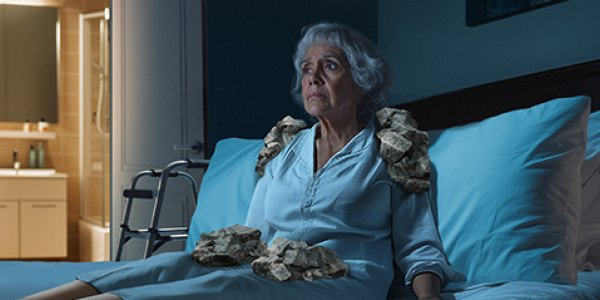
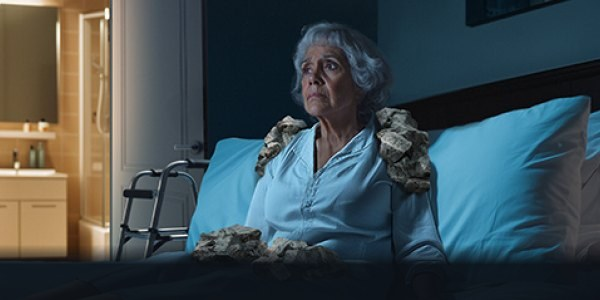
banners5: client feedback on 300x250/336x280/300x600 Surface set
Frame 1 — drop the #f1legal dark box; bake the dark base into
f1-photo.jpg for 300x250 and 336x280 so the dark area under the
green bar is part of the image (300x600 already did this).

Frame 2 — resize/reposition #f2rock to the Figma layout (node 277-2)
so the rock size and its gap to the purple bar match: 8px (300x250),
11px (336x280), 22px (300x600). Purple bar positions unchanged.

Changed region(s): [[0.0, 0.81, 1.0, 1.0]]

diff --git a/banners5/083126_Catalyst-Surface_HTML5_CAL-0166-1_336x280/083126_Catalyst-Surface_HTML5_CAL-0166-1_336x280.html b/banners5/083126_Catalyst-Surface_HTML5_CAL-0166-1_336x280/083126_Catalyst-Surface_HTML5_CAL-0166-1_336x280.html
@@ -48,15 +48,14 @@
                transform-origin: 50% 45%; }
     #f1bar   { position: absolute; left: 0; top: 174px; width: 336px; height: 65px;
                background: #8EBE4E; z-index: 20; }
-    #f1legal { position: absolute; left: 0; top: 239px; width: 336px; height: 41px;
-               background: #0E161C; z-index: 23; }
+    /* no dark box under the bar — the dark base is baked into f1-photo.jpg (matches Figma / 300x600) */
     #f1head  { z-index: 25; }
     #f1foot  { z-index: 25; }
 
     /* ---- Frame 2 ---- */
     /* full-frame block; the "bar opens" transition scales it on Y (compositor-only) */
     #f2bg   { position: absolute; left: 0; top: 0; width: 336px; height: 280px; background: #8EBE4E; z-index: 30; }
-    #f2rock { position: absolute; top: 30px; left: 100px; width: 136px; z-index: 40; }
+    #f2rock { position: absolute; top: 53px; left: 97px; width: 138px; z-index: 40; }
     #f2bar  { position: absolute; left: 0; top: 151px; width: 336px; height: 79px;
               background: #44264A; z-index: 50; }
     #f2head { z-index: 55; }
@@ -75,7 +74,7 @@
     /* CSS owns the frame-1 starting state so nothing flashes before the JS
        timeline runs: fade-in layers start hidden, and the full-frame colour
        blocks start collapsed to a bar (the timeline only tweens from here). */
-    #f1bar, #f1head, #f1legal, #f1foot,
+    #f1bar, #f1head, #f1foot,
     #f2bg, #f2rock, #f2bar, #f2head,
     #f3bg, #f3head, #f3foot, #f3band, #f3cta, #f3rock { opacity: 0; }
 
@@ -91,7 +90,6 @@
     <img id="f1photo" src="img/f1-photo.jpg" alt="">
     <div id="f1bar"></div>
     <img id="f1head" class="txt" src="img/f1-head.png" alt="Is Cancer-Associated LEMS weighing down your patients with SCLC?">
-    <div id="f1legal"></div>
     <img id="f1foot" class="txt" src="img/f1-foot.svg" alt="LEMS=Lambert-Eaton myasthenic syndrome; SCLC=small cell lung cancer.">
 
     <div id="f2bg"></div>
@@ -136,7 +134,7 @@
     tl.set('#f1bar', { opacity: 1, xPercent: -110 }, 0.5);
     tl.to('#f1bar', { xPercent: 0, duration: 0.55, ease: 'power2.out' }, 0.5);
     tl.to('#f1head', { opacity: 1, duration: 0.35, ease: 'power1.out' }, 1.15);
-    tl.to(['#f1legal', '#f1foot'], { opacity: 1, duration: 0.30, ease: 'power1.out' }, 1.45);
+    tl.to('#f1foot', { opacity: 1, duration: 0.30, ease: 'power1.out' }, 1.45);
 
     // TRANSITION 1 — green bar opens to clear the screen
     tl.set('#f2bg', { opacity: 1 }, 4.7);

diff --git a/banners5/083126_Catalyst-Surface_HTML5_CAL-0166-1_300x250/083126_Catalyst-Surface_HTML5_CAL-0166-1_300x250.html b/banners5/083126_Catalyst-Surface_HTML5_CAL-0166-1_300x250/083126_Catalyst-Surface_HTML5_CAL-0166-1_300x250.html
@@ -48,15 +48,14 @@
                transform-origin: 50% 45%; }
     #f1bar   { position: absolute; left: 0; top: 152px; width: 300px; height: 65px;
                background: #8EBE4E; z-index: 20; }
-    #f1legal { position: absolute; left: 0; top: 217px; width: 300px; height: 33px;
-               background: #0E161C; z-index: 23; }
+    /* no dark box under the bar — the dark base is baked into f1-photo.jpg (matches Figma / 300x600) */
     #f1head  { z-index: 25; }
     #f1foot  { z-index: 25; }
 
     /* ---- Frame 2 ---- */
     /* full-frame block; the "bar opens" transition scales it on Y (compositor-only) */
     #f2bg   { position: absolute; left: 0; top: 0; width: 300px; height: 250px; background: #8EBE4E; z-index: 30; }
-    #f2rock { position: absolute; top: 16px; left: 88px; width: 124px; z-index: 40; }
+    #f2rock { position: absolute; top: 37px; left: 83px; width: 130px; z-index: 40; }
     #f2bar  { position: absolute; left: 0; top: 127px; width: 300px; height: 79px;
               background: #44264A; z-index: 50; }
     #f2head { z-index: 55; }
@@ -75,7 +74,7 @@
     /* CSS owns the frame-1 starting state so nothing flashes before the JS
        timeline runs: fade-in layers start hidden, and the full-frame colour
        blocks start collapsed to a bar (the timeline only tweens from here). */
-    #f1bar, #f1head, #f1legal, #f1foot,
+    #f1bar, #f1head, #f1foot,
     #f2bg, #f2rock, #f2bar, #f2head,
     #f3bg, #f3head, #f3foot, #f3band, #f3cta, #f3rock { opacity: 0; }
 
@@ -91,7 +90,6 @@
     <img id="f1photo" src="img/f1-photo.jpg" alt="">
     <div id="f1bar"></div>
     <img id="f1head" class="txt" src="img/f1-head.png" alt="Is Cancer-Associated LEMS weighing down your patients with SCLC?">
-    <div id="f1legal"></div>
     <img id="f1foot" class="txt" src="img/f1-foot.svg" alt="LEMS=Lambert-Eaton myasthenic syndrome; SCLC=small cell lung cancer.">
 
     <div id="f2bg"></div>
@@ -136,7 +134,7 @@
     tl.set('#f1bar', { opacity: 1, xPercent: -110 }, 0.5);
     tl.to('#f1bar', { xPercent: 0, duration: 0.55, ease: 'power2.out' }, 0.5);
     tl.to('#f1head', { opacity: 1, duration: 0.35, ease: 'power1.out' }, 1.15);
-    tl.to(['#f1legal', '#f1foot'], { opacity: 1, duration: 0.30, ease: 'power1.out' }, 1.45);
+    tl.to('#f1foot', { opacity: 1, duration: 0.30, ease: 'power1.out' }, 1.45);
 
     // TRANSITION 1 — green bar opens to clear the screen
     tl.set('#f2bg', { opacity: 1 }, 4.7);

diff --git a/banners5/083126_Catalyst-Surface_HTML5_CAL-0166-1_300x600/083126_Catalyst-Surface_HTML5_CAL-0166-1_300x600.html b/banners5/083126_Catalyst-Surface_HTML5_CAL-0166-1_300x600/083126_Catalyst-Surface_HTML5_CAL-0166-1_300x600.html
@@ -54,7 +54,7 @@
     /* ---- Frame 2 ---- */
     /* full-frame block; the "bar opens" transition scales it on Y (compositor-only) */
     #f2bg   { position: absolute; left: 0; top: 0; width: 300px; height: 600px; background: #8EBE4E; z-index: 30; }
-    #f2rock { position: absolute; top: 125px; left: 70px; width: 160px; z-index: 40; }
+    #f2rock { position: absolute; top: 151px; left: 63px; width: 175px; z-index: 40; }
     #f2bar  { position: absolute; left: 0; top: 283px; width: 300px; height: 173px;
               background: #44264A; z-index: 50; }
     #f2head { z-index: 55; }
